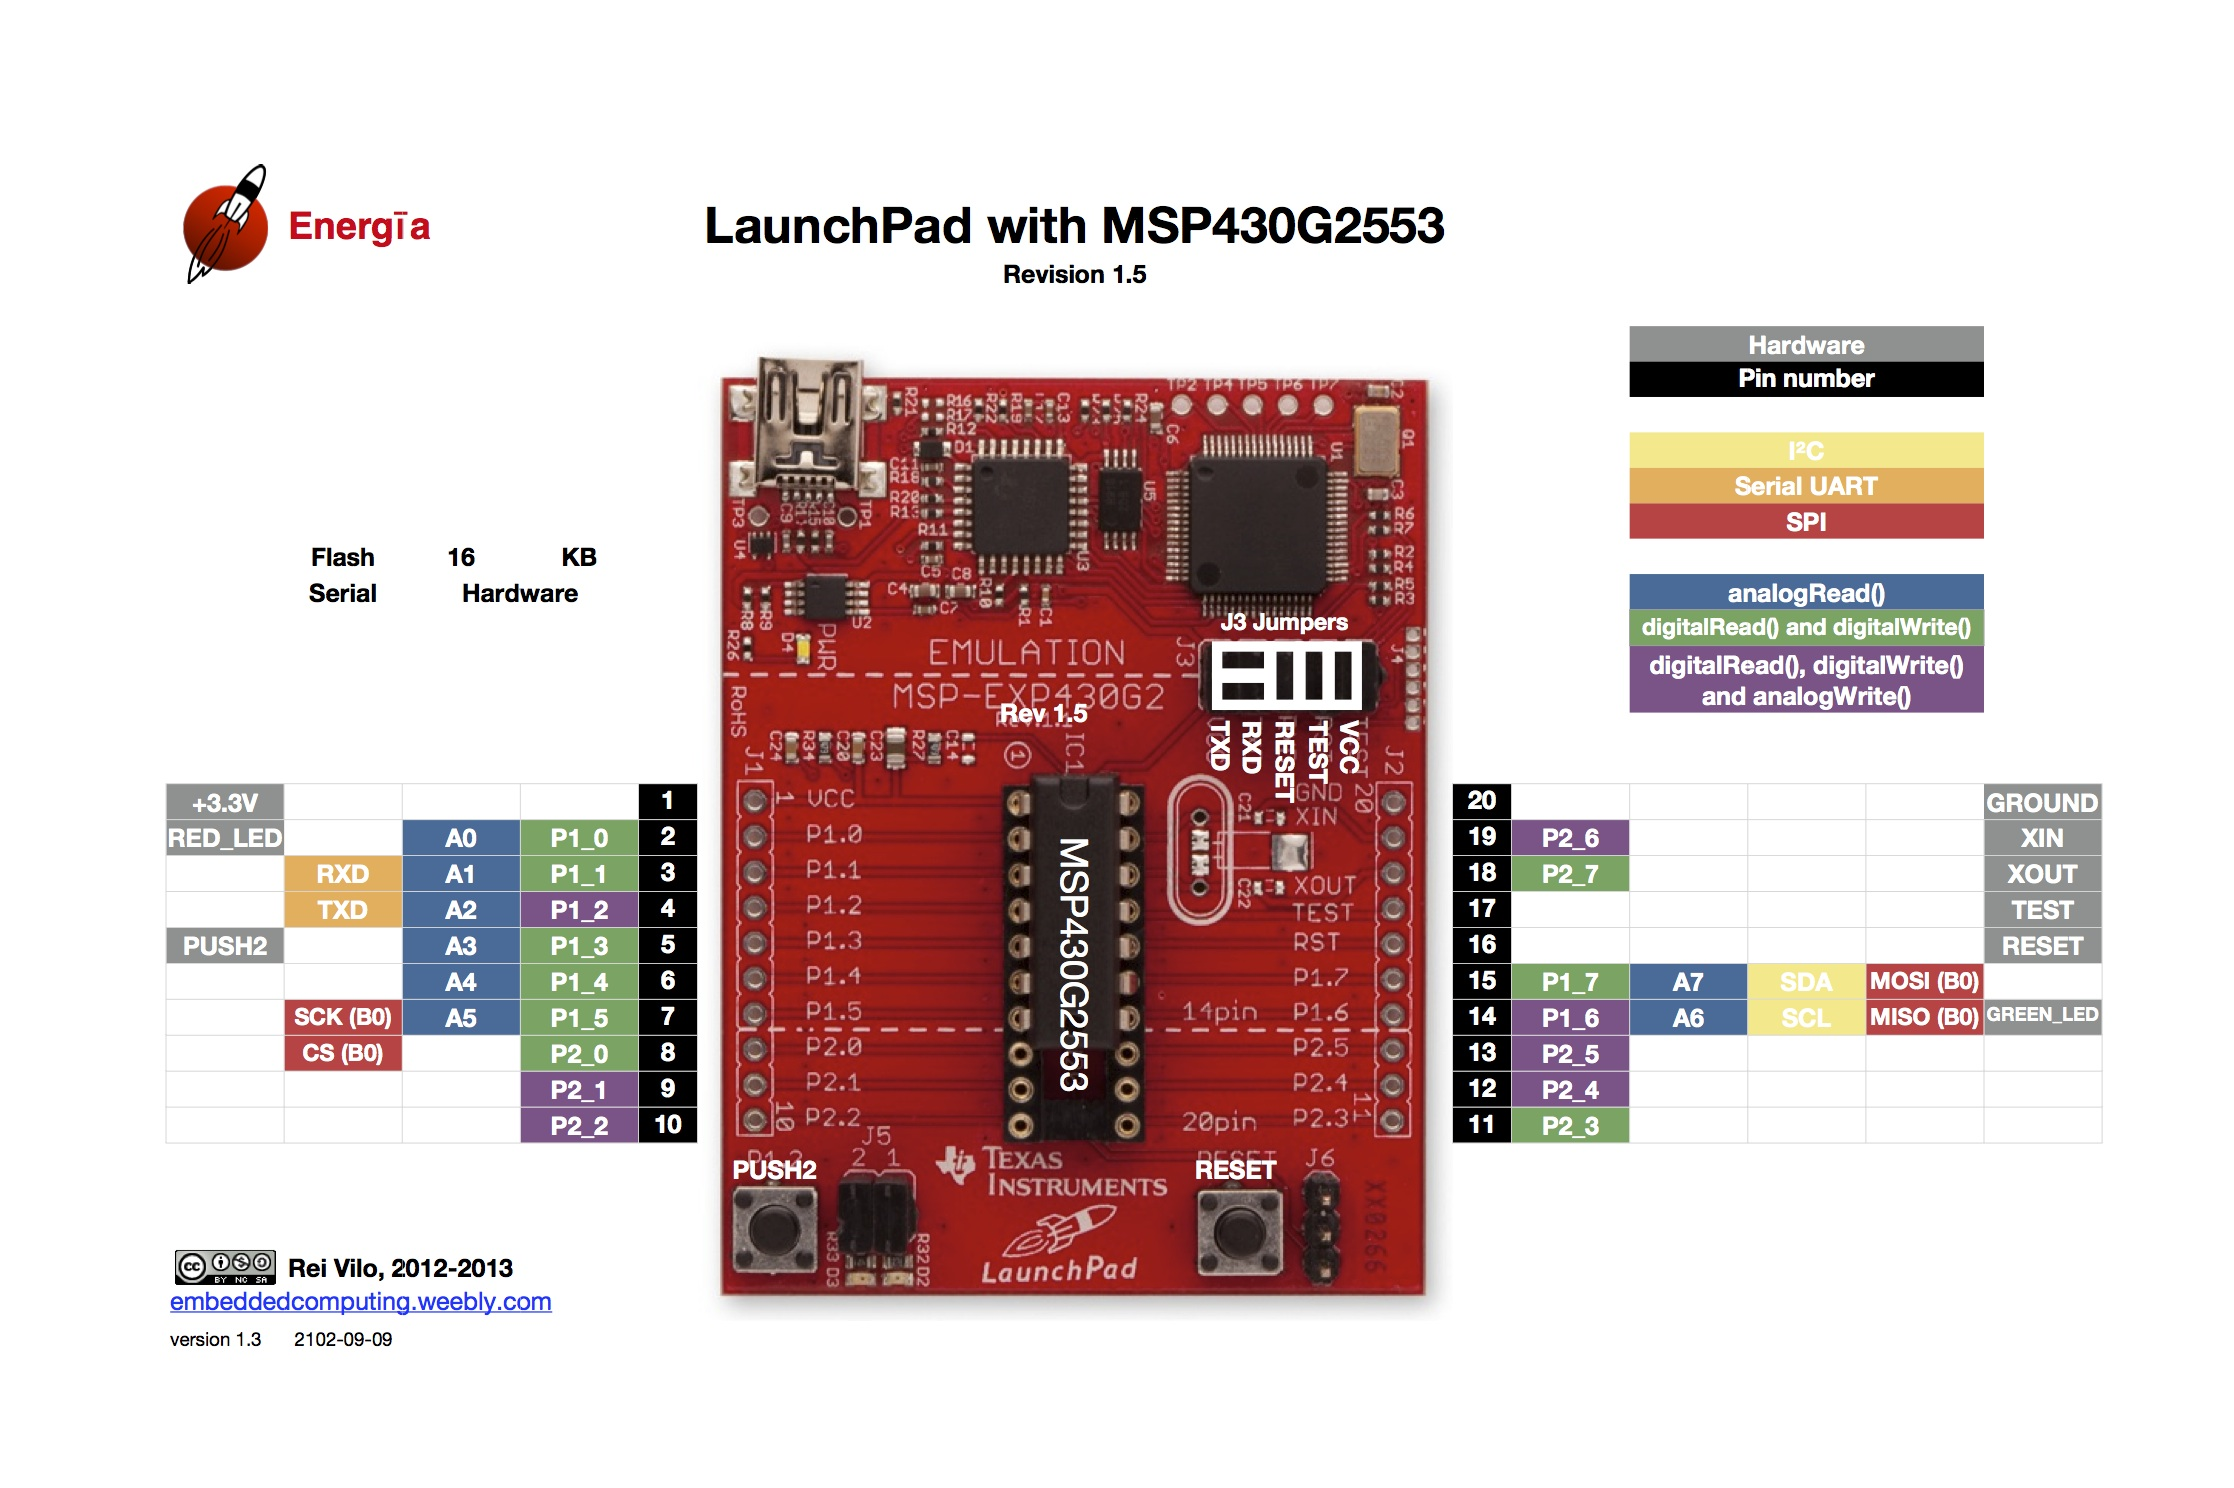
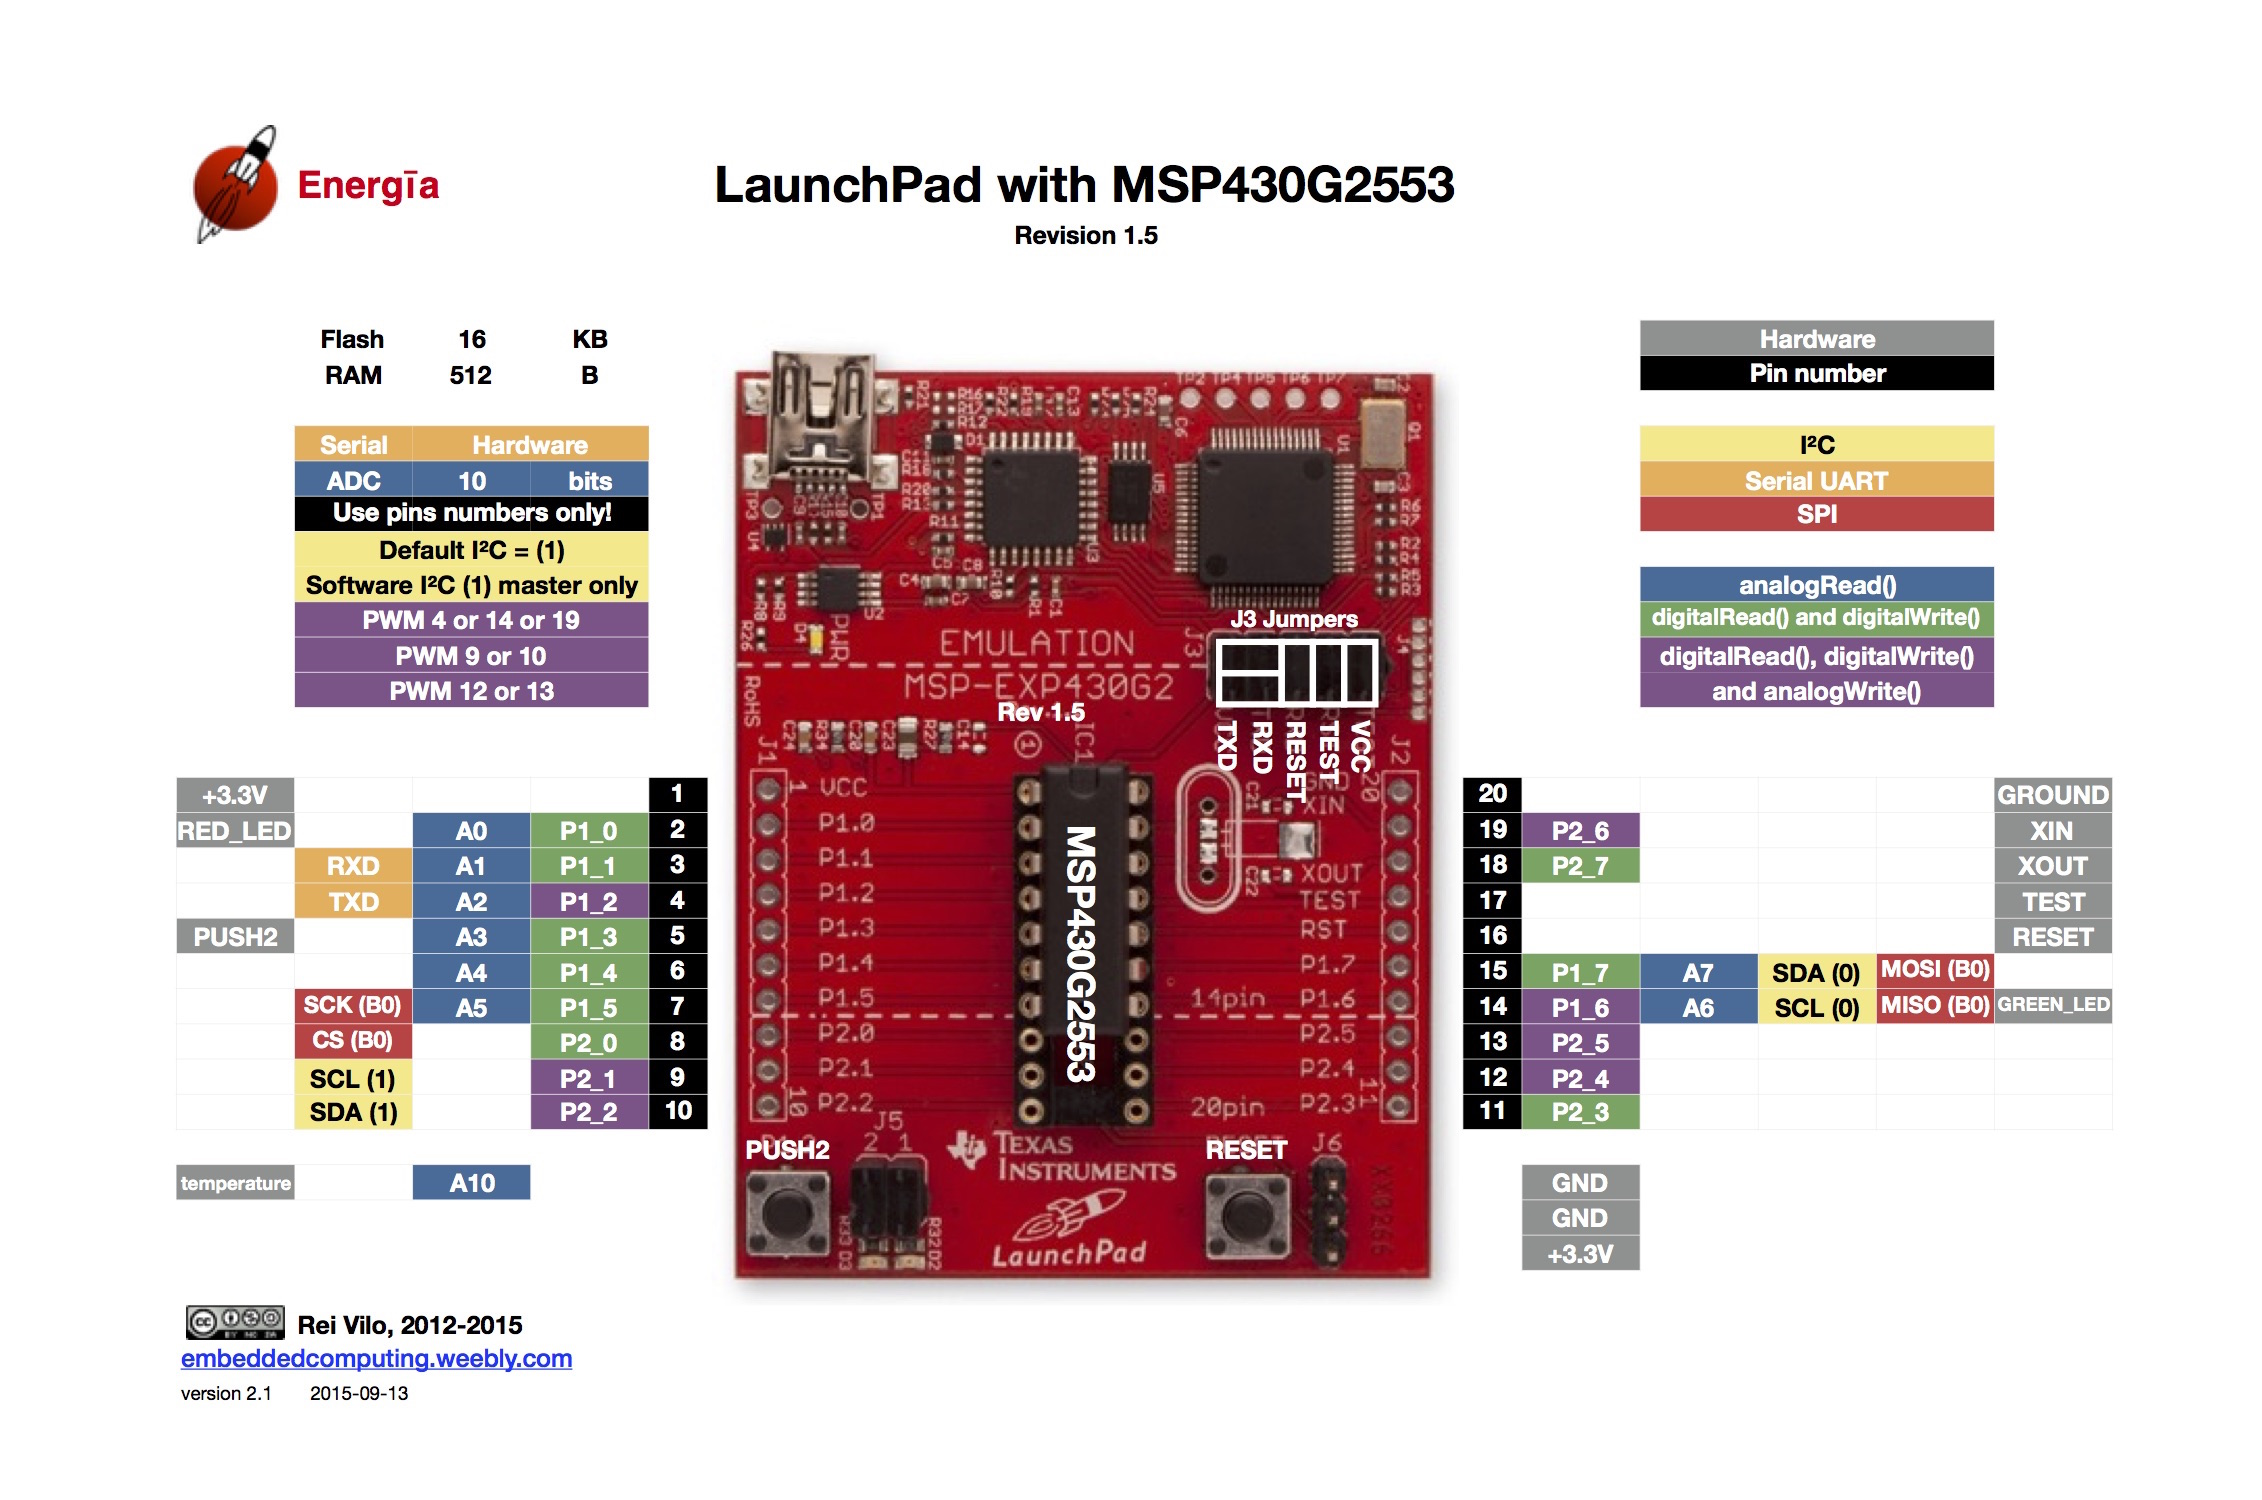
Added link to explanation

diff --git a/README.md b/README.md
@@ -1,13 +1,15 @@
 # MSP430 patched version of LiquidCrystal-I2C
 
-Patch consist of a simple trick to tell the library to use the native I2C
-module of the MSP430 G2553 using the following call:
+Patch consist of a simple trick to tell the library to use the module 0 I2C
+of the MSP430 G2553 using the following call:
 
     Wire.setModule(0);
 
 The I2C is mapped to pins 1.6 and 1.7 as showed by the following schema:
 
 ![MSP430 Lauchpad Overview](docs/launchpad.jpg)
+
+[See this comment for explanation](https://github.com/energia/Energia/issues/486#issuecomment-200729667).
 
 Note that since pin 1.6 is also wired to GREEN_LED, you will have to remove the
 green led jumper because it *will* interfere with I2C signal, although the
